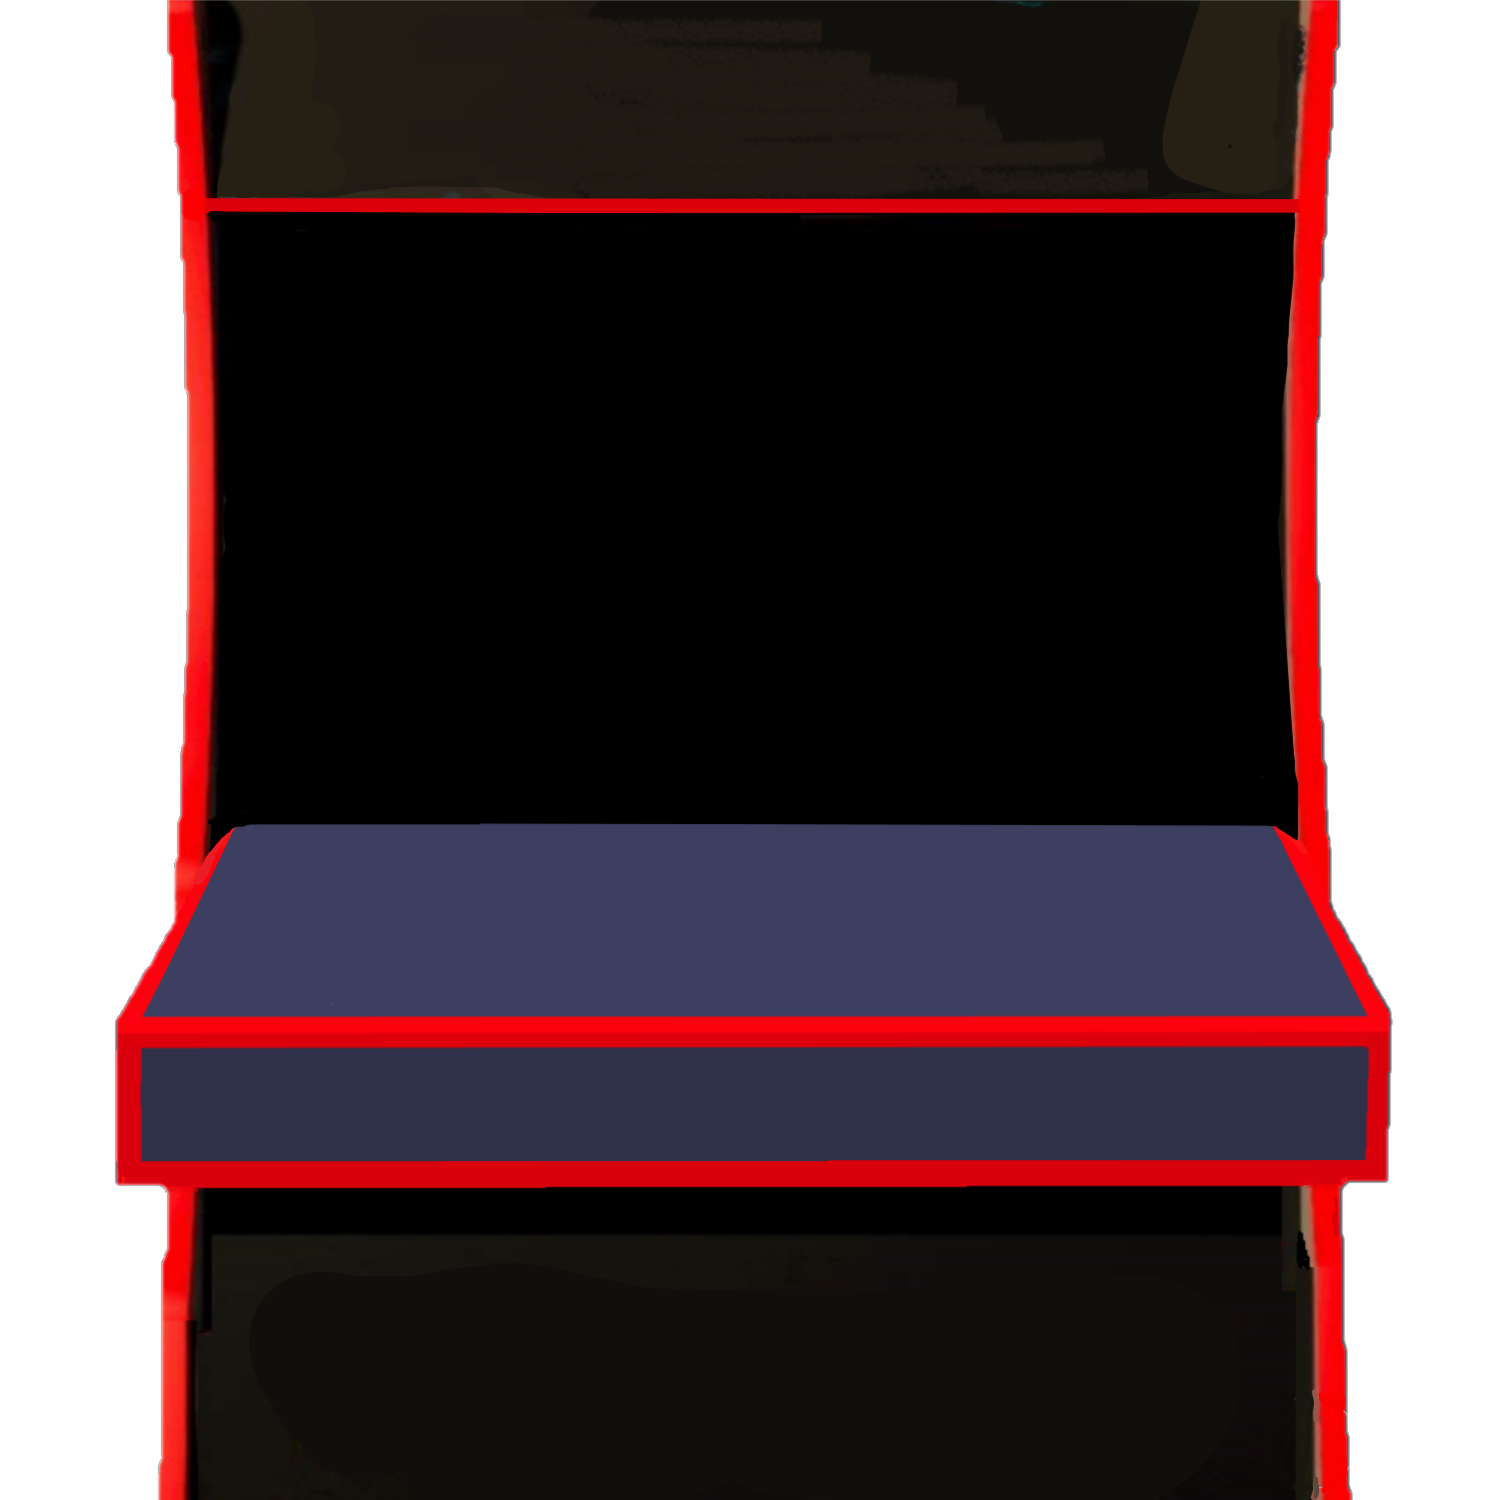
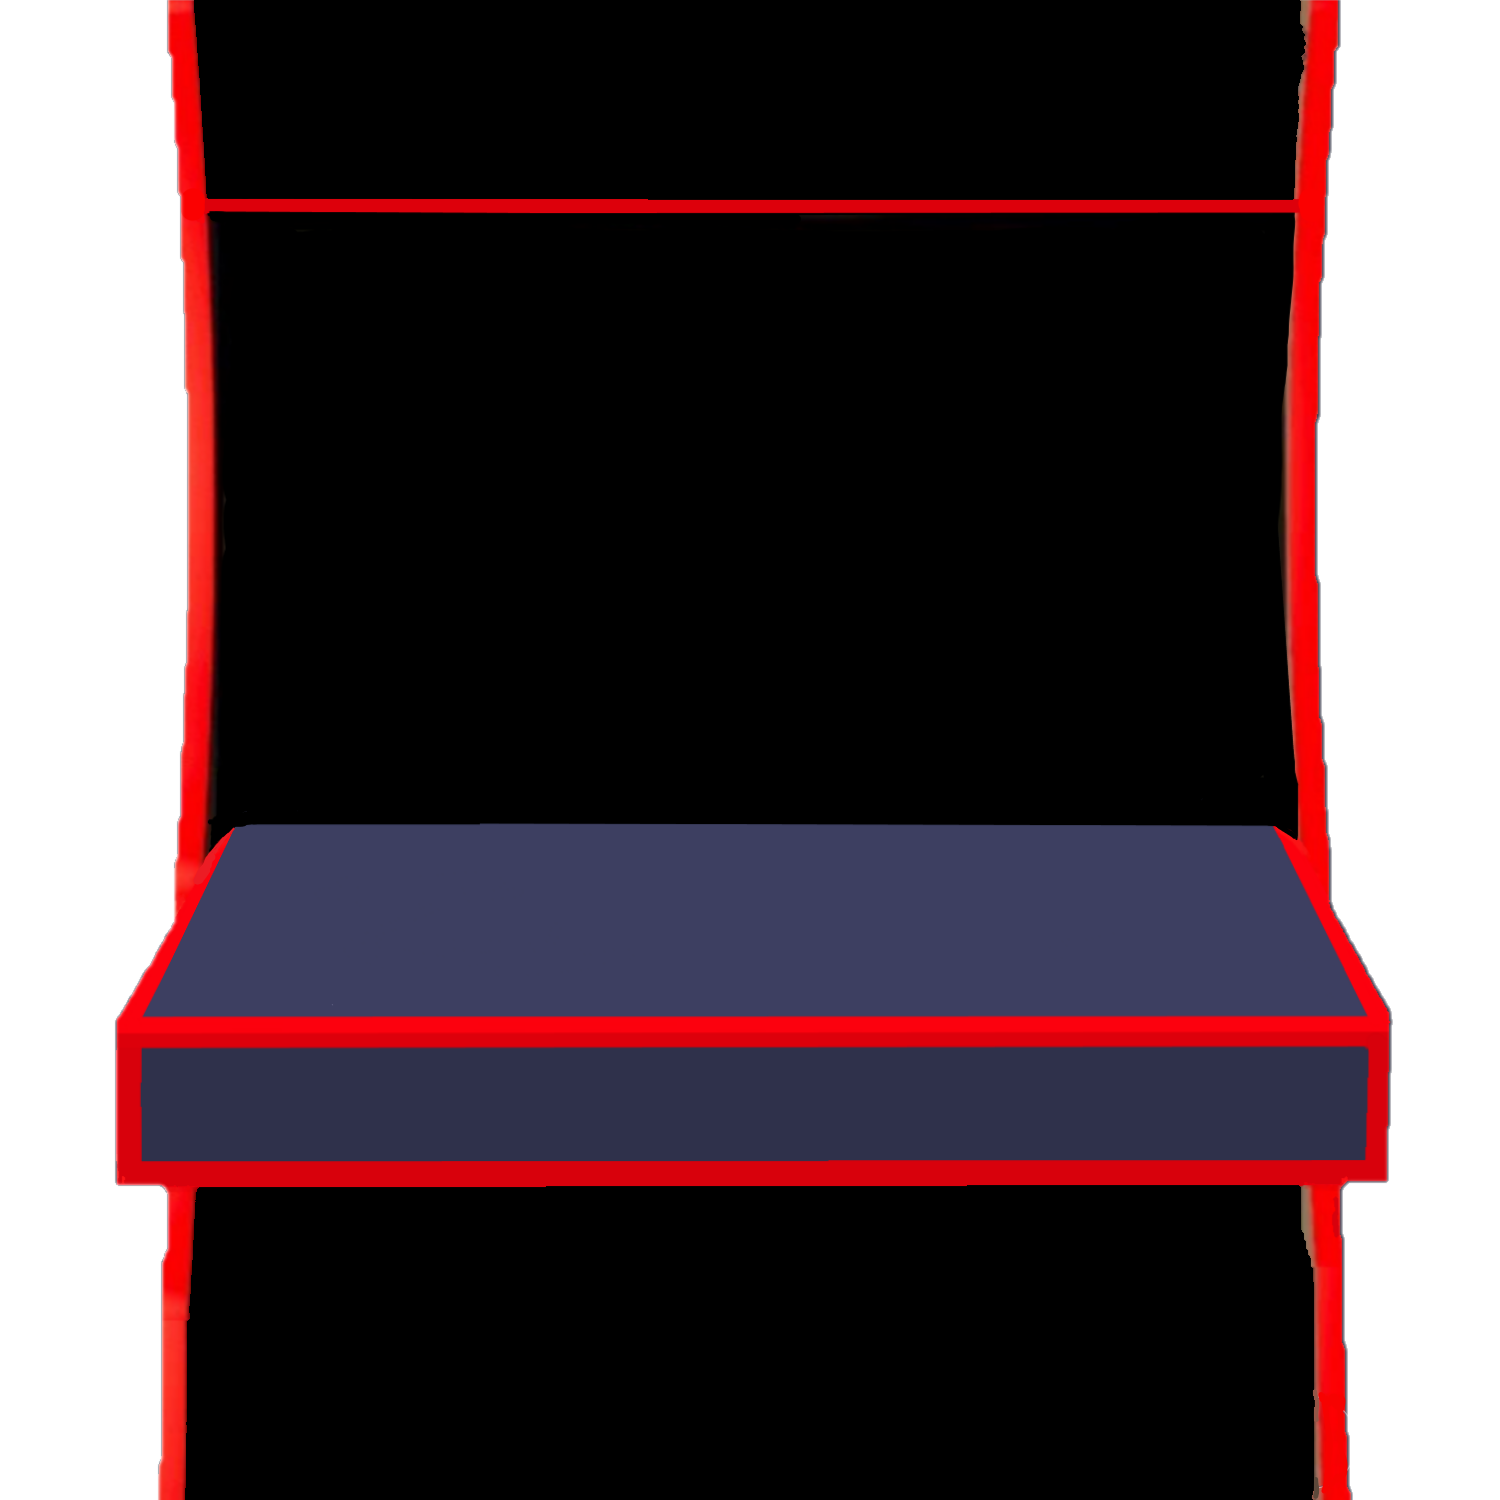
gameboy

Changed region(s): [[0.1227, 0.0, 0.8893, 0.1533], [0.1227, 0.7973, 0.276, 0.9507], [0.828, 0.7973, 0.8893, 1.0]]

diff --git a/styles.css b/styles.css
@@ -584,15 +584,19 @@ z-index: -300;
 width: 1500px;
 margin-left: -268px;
 margin-top: -92px;
-
 }
+
+
+.gameboy {
+  display: none;
+  }
+
 .screen {
   margin-left: -0px;
   margin-top: 95px;
   position: absolute;
   z-index: 1 ;
   opacity: 1;
-  min-width: ;
   width: 100%;
   
 }/* 
@@ -855,7 +859,7 @@ width: 1000px;
   
 @media (max-width: 750px ) {
 html { 
-  margin-top: 100px;
+  margin-top: 200px;
   zoom: 50%;
   background-image: url(/images/bg.png);
   background-position:  2000px -500px;
@@ -886,15 +890,76 @@ margin-top: 100px;
 }
 
 
-
 @media (max-width: 500px ) {
   html {
-    margin-top: 200px;
+    margin-top: 40%;
     zoom: 40%;
-    background-image: url(/images/bg.png);
-    background-position:  2000px -500px;
-    background-size: 3000px;
-    
+    background-image: none;
+   background-color: black; */
   }
-  
+
+  main {
+    width: 64rem;
+}
+footer {
+  margin-top: 500px; 
+  width: 64rem;
+z-index: 1000;
+opacity: 0;
+
+}
+
+
+.ring img{
+  width: 100%;
+  margin-top: 20%;
+  animation: ringfloat 37.5s infinite;
+}
+
+.joy-btn {
+  margin-top: 200px;
+  margin-left: -300px;
+  position: absolute;
+  width: 300px;
+  height: 300px;
+  border-radius: 50%;
+  opacity: 0;
   }
+
+  .go-btn {
+    position: absolute;
+    margin-top: -50px;
+    width: 200px;
+    height: 200px;
+    margin-left: 50px;
+    border-radius: 50%;
+    opacity: 0;
+    }
+
+
+header {
+  display: none;
+}
+ 
+
+.arkad img{
+  opacity: 0;
+  } 
+
+.gameboy {
+  display: block;
+  position: absolute;
+z-index: -300;
+width: 1500px;
+margin-left: -275px;
+margin-top: -92px;
+z-index: 100;
+}
+  /* margin: auto; */
+}
+  .gameboy img{
+    margin-left: 30px;
+    margin-top: 30px;
+  } 
+
+ */ */

diff --git a/index.html b/index.html
@@ -18,6 +18,10 @@
     <div class="arkad">
         <img src="images/arkad.png" alt="">
     </div>
+    
+    <div class="gameboy">
+        <img src="images/gameboy2.png" alt="">
+    </div>
    <!--  <audio controls autoplay>   <source src="/music/level-1.mp3" type="audio/mpeg"> -->
 
     </audio>
@@ -27,7 +31,7 @@
 
 <main>
     <div class="screen">
-      <img src="images/screen3.png" alt="">
+      <img src="images/screen3.png" id="screenborder" alt="">
         <div class="life-bars-block">
             <div class="nameblock">
             
